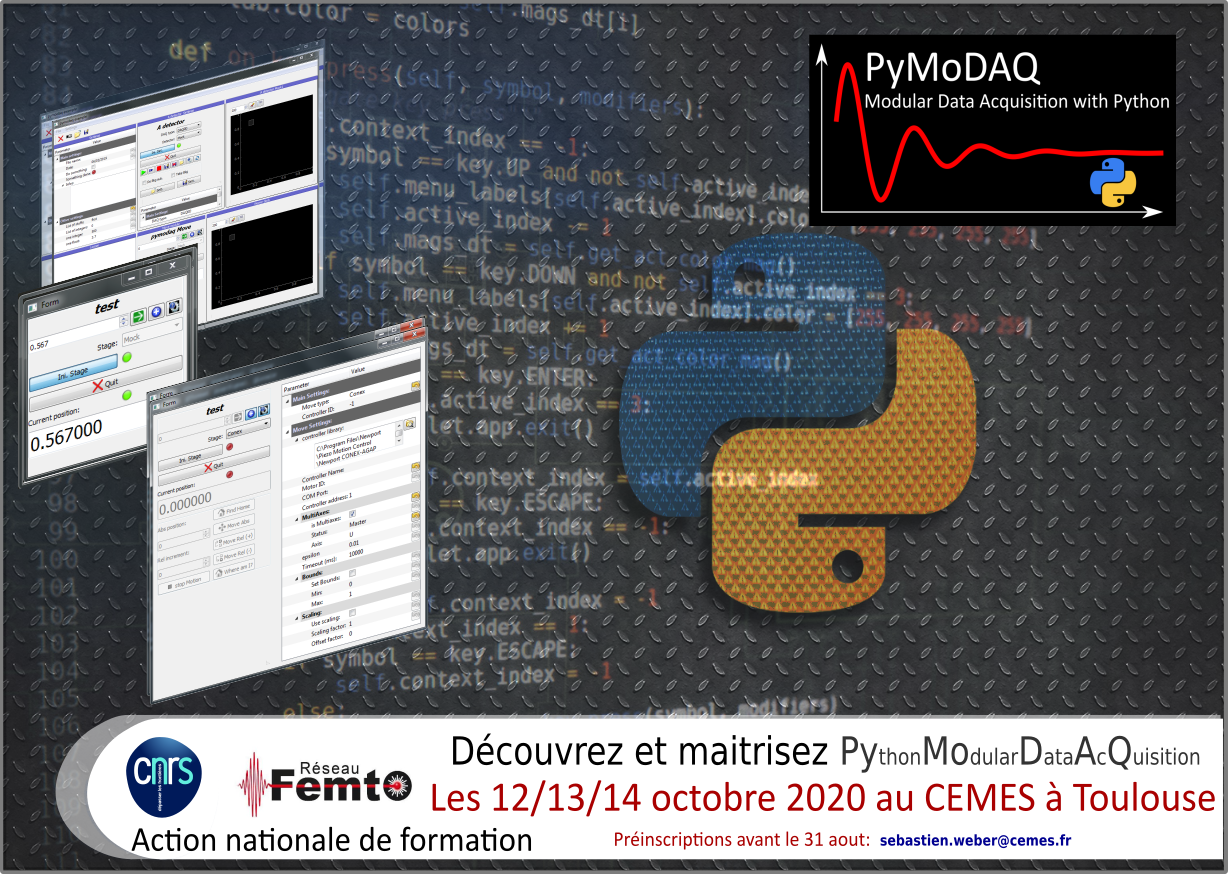
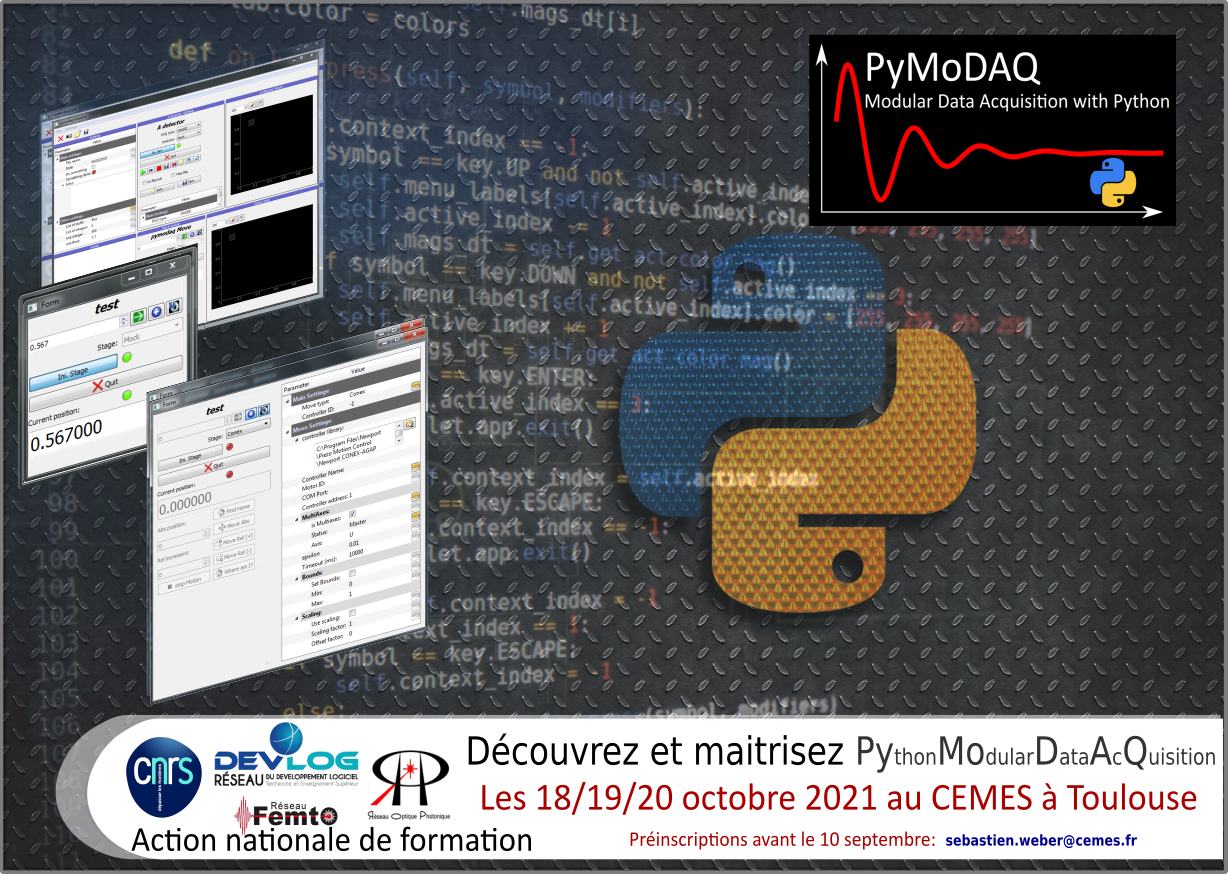
added ANF call in doc

Changed region(s): [[0.1547, 0.8032, 0.9902, 0.9886]]

diff --git a/docs/src/index.rst b/docs/src/index.rst
@@ -6,15 +6,15 @@
 Welcome to PyMoDAQ's documentation!
 ===================================
 
-..
-   Announcement: Training session in Toulouse, France 12/13/14 Octobre 2020:
 
-      .. _flyer:
+Announcement: Training session in Toulouse, France 18/19/20 October 2021:
 
-   .. figure:: /image/Flyer_PyMoDAQ.png
-      :alt: Flyer_femto
+   .. _flyer:
 
-      Training session announcement
+.. figure:: /image/Flyer_PyMoDAQ.png
+   :alt: Flyer_femto
+
+   Training session announcement
 
 PyMoDAQ, Modular Data Acquisition with Python, is a set of **python** modules used to interface any kind of experiments.
 It simplifies the interaction with detector and actuator hardware to go straight to the data acquisition of interest.
